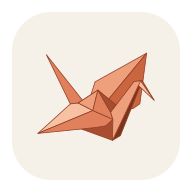
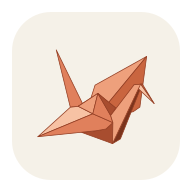
Raise the crane's tail and pair the crane with a folded-paper wordmark
The start page now shows the crane left-aligned with a "Wish" wordmark
built from folded paper strips: each fold flips the strip, so faces
alternate between the text colour and the accent, like origami paper.

Changed region(s): [[0.1875, 0.25, 0.8125, 0.75]]

diff --git a/src/features/sessions/StartChat.vue b/src/features/sessions/StartChat.vue
@@ -21,6 +21,7 @@ import DirectoryPicker from './DirectoryPicker.vue';
 import ModelSettings from './ModelSettings.vue';
 import ReasoningSettings from './ReasoningSettings.vue';
 import Icon from '../../ui/components/Icon.vue';
+import Wordmark from '../../ui/components/Wordmark.vue';
 
 const route = useRoute(), router = useRouter();
 const mobile = useMedia('(max-width: 899px)');
@@ -132,7 +133,7 @@ async function send(text: string, attachments: AttachmentInput[]) {
       <button class="btn ghost icon-only" :aria-label="i18n.t('nav.settings')" @click="router.push('/settings')"><Icon name="settings"/></button>
     </div>
     <div class="start-surface">
-      <img class="start-mark" src="/app-icons/mark.svg" alt="" />
+      <div class="start-brand" aria-hidden="true"><img class="start-mark" src="/app-icons/mark.svg" alt="" /><Wordmark class="start-wordmark" /></div>
       <Composer ref="composer" session-id="new-session" :mobile="mobile" start :send-message="send" :disabled="!selection.model || !cwd.trim() || busy || (!manuallySelected && !defaultReady)">
         <template #selection>
           <div class="start-model-controls model-selection">
@@ -161,7 +162,9 @@ async function send(text: string, attachments: AttachmentInput[]) {
 <style scoped>
 .start-chat { height: 100%; min-height: 0; overflow: auto; display: flex; align-items: center; justify-content: center; padding: 32px clamp(24px, 5vw, 80px); position: relative; }
 .start-surface { width: 100%; max-width: 740px; margin-block: auto; padding-block: 24px 12vh; }
-.start-mark { display: block; width: 72px; height: auto; margin: 0 auto 28px; }
+.start-brand { display: flex; align-items: center; gap: 16px; margin-bottom: 28px; }
+.start-mark { display: block; width: 64px; height: auto; }
+.start-wordmark { height: 40px; color: var(--fg); }
 .start-model-controls { display: inline-flex; width: max-content; max-width: 100%; align-items: center; min-width: 0; gap: 3px; }
 .start-model-controls button { font-size: 12px; min-width: 0; overflow: hidden; text-overflow: ellipsis; white-space: nowrap; }
 .start-model-controls .model-chip { flex: 0 1 auto; max-width: min(38vw, 320px); }
@@ -182,11 +185,15 @@ async function send(text: string, attachments: AttachmentInput[]) {
   .mobile-home { flex-direction: column; justify-content: flex-start; padding: 52px 24px 24px; }
   .mobile-home .start-surface { flex-shrink: 0; margin: auto; padding: 0; }
   :deep(.composer-mobile-actions .composer-start-selection) { flex: 1; min-width: 0; padding: 0; }
-  .mobile-home .start-mark { width: 48px; margin: 0 0 16px; }
-  .start-mark { width: 60px; margin-bottom: 24px; }
+  .start-brand { gap: 12px; margin-bottom: 24px; }
+  .start-mark { width: 52px; }
+  .start-wordmark { height: 32px; }
+  .mobile-home .start-brand { margin-bottom: 16px; }
+  .mobile-home .start-mark { width: 44px; }
+  .mobile-home .start-wordmark { height: 28px; }
   :deep(.composer-start) { min-height: 0; padding: 12px 12px 14px; }
   :deep(.composer-start .composer-mobile-actions) { margin-bottom: 12px; }
   :deep(.composer-start.mobile .composer-editor), :deep(.composer-start.mobile .composer-input) { min-height: 72px; }
 }
-@media (max-height: 500px) { .start-surface { padding-block: 8px; } .start-mark { display: none; } }
+@media (max-height: 500px) { .start-surface { padding-block: 8px; } .start-brand { display: none; } }
 </style>

diff --git a/src/ui/components/Wordmark.vue b/src/ui/components/Wordmark.vue
@@ -1,0 +1,30 @@
+<template>
+  <!-- Each letter is one paper strip. Every fold flips the strip, so its faces
+       alternate between the paper's front (text colour) and back (accent);
+       the i's dot is a folded square in the crane's colours. -->
+  <svg class="wordmark" viewBox="-1 -1 266.4 102" role="img" aria-label="Wish">
+    <polygon class="front" points="0,0 17.6,0 44.6,100 27,100" />
+    <polygon class="back" points="27,100 44.6,100 63.5,30 45.9,30" />
+    <polygon class="front" points="45.9,30 63.5,30 82.4,100 64.8,100" />
+    <polygon class="back" points="64.8,100 82.4,100 109.4,0 91.8,0" />
+    <polygon class="front" points="119.4,38 136.4,32 136.4,100 119.4,100" />
+    <polygon class="dot-light" points="127.9,2 127.9,22 117.9,12" />
+    <polygon class="dot-dark" points="127.9,2 137.9,12 127.9,22" />
+    <polygon class="front" points="199.4,32 149.4,32 166.4,46 199.4,46" />
+    <polygon class="back" points="149.4,32 149.4,73 166.4,59 166.4,46" />
+    <polygon class="front" points="166.4,59 149.4,73 182.4,73 199.4,59" />
+    <polygon class="back" points="199.4,59 182.4,73 182.4,86 199.4,100" />
+    <polygon class="front" points="199.4,100 182.4,86 149.4,86 149.4,100" />
+    <polygon class="back" points="216.4,32 264.4,32 247.4,46 216.4,46" />
+    <polygon class="front" points="264.4,32 264.4,100 247.4,100 247.4,46" />
+    <polygon class="front" points="212.4,6 229.4,0 229.4,100 212.4,100" />
+  </svg>
+</template>
+
+<style scoped>
+.wordmark { display: block; width: auto; }
+.front { fill: currentColor; }
+.back { fill: var(--accent); }
+.dot-light { fill: #eea07c; }
+.dot-dark { fill: #c9653f; }
+</style>
